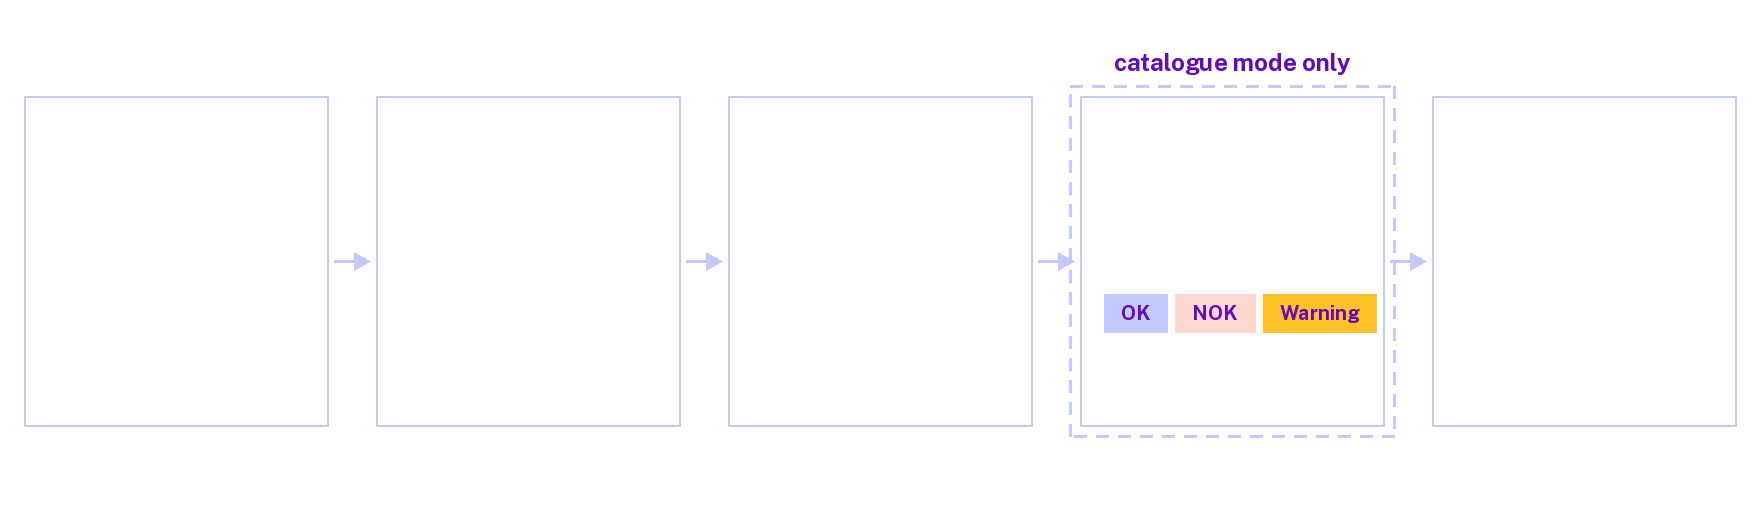
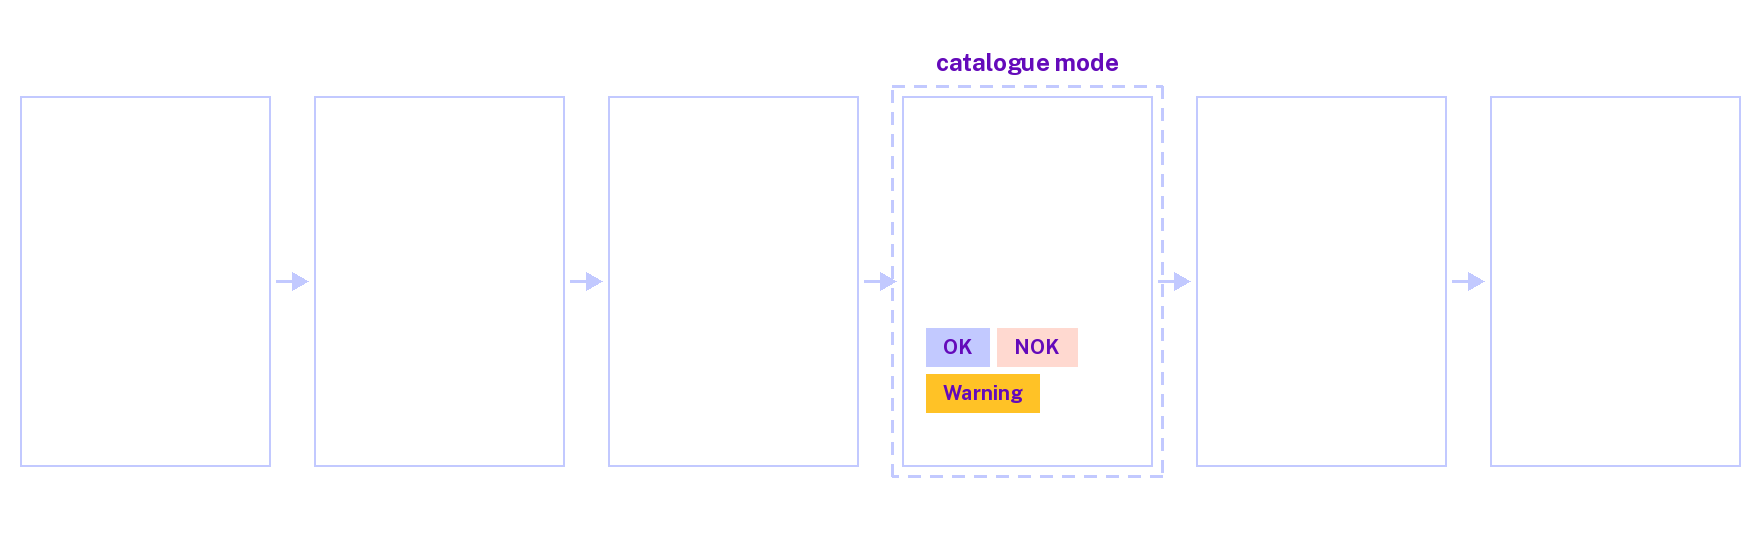
Figure 13 in the station's order: Find, Measure, Judge, Describe, Record
A catalogue mode measures, recognises and checks each object before it is described, and the
describer is told what the checks found (README > Detection logic; the item's describer prompt).
The pipeline diagram drew Describe before Judge. It now draws Frame, Find, Measure, Judge
(marked catalogue mode, its three states as badges), Describe and Record, with the note that a
detect-only mode skips Judge.

- Example/UI/readme_diagrams.py: the steps in CONST_PIPELINE_STEPS, the catalogue step in
  CONST_CATALOGUE_STEP; images/anyscan-pipeline-{light,dark}.png regenerated (the models pair
  is unchanged, byte for byte).
- README: Figure 13's caption and alt text say the order.
- test_readme_diagrams.py: the pipeline follows the station's order (broken once by swapping
  Judge and Describe: it and both pixel tests failed; restored).
- SPEC > Harnesses and tools and readme-writer's project reference describe the new order.

diff --git a/Example/UI/readme_diagrams.py b/Example/UI/readme_diagrams.py
@@ -51,8 +51,8 @@ Description:
     Initialization of constants.
 
     The generator of the README's two light/dark diagram pairs, shown through <picture>:
-    images/anyscan-pipeline-{light,dark}.png, a frame's way to the record (frame -> find -> describe and measure ->
-    judge -> record, the judge step a catalogue mode's only), and images/anyscan-models-{light,dark}.png, the three
+    images/anyscan-pipeline-{light,dark}.png, a frame's way to the record in the station's order (frame -> find ->
+    measure -> judge -> describe -> record, the judge step a catalogue mode's only), and images/anyscan-models-{light,dark}.png, the three
     models with what each does, what it runs on, the revision install.sh pins and its download size (both read from
     install.sh, never typed here).
 
@@ -299,11 +299,25 @@ class Canvas_Cls(object):
                 p = q + 10
 
 
+# The pipeline diagram's steps, in the station's order for a catalogue mode (README > Detection logic: a catalogue
+# mode measures, recognises and checks each object before it is described, and tells the describer what the checks
+# found): each step's pixel icon, its name and its words. The catalogue mode's own step is CONST_CATALOGUE_STEP.
+#   Unit [List<Tuple<string, string, string>>]
+CONST_PIPELINE_STEPS = [('camera', 'Frame', 'SCAN takes one frame once nothing moves'),
+                        ('magnifier', 'Find', 'what changed against the empty table, OR FastSAM segmentation'),
+                        ('ruler', 'Measure', 'the size in mm, through the calibration'),
+                        ('badge', 'Judge', 'DINOv2 recognises the part, the checks give a state'),
+                        ('text', 'Describe', 'a local vision-language model, told what the checks found'),
+                        ('log', 'Record', 'capture set, session log, run summary')]
+CONST_CATALOGUE_STEP = 'Judge'
+
+
 def Draw_Pipeline(dark: bool) -> Image.Image:
     """
     Description:
-        A frame's way to the record, left to right: Frame, Find, Describe and measure, Judge (a catalogue mode's only,
-        in a dashed group with its tag, and its three states as badges) and Record.
+        A frame's way to the record, left to right, in the station's order for a catalogue mode
+        (CONST_PIPELINE_STEPS): Frame, Find, Measure, Judge (the catalogue mode's step, in a dashed group with its tag,
+        its three states as badges), Describe and Record. A detect-only mode skips Judge.
 
     Args:
         (1) dark [bool]: The dark version.
@@ -312,34 +326,30 @@ def Draw_Pipeline(dark: bool) -> Image.Image:
         (1) parameter [Image.Image]: The image.
     """
 
-    canvas = Canvas_Cls(520, dark)
-    title, body = Font(34, 700), Font(26, 400)
-    steps = [('camera', 'Frame', 'SCAN takes one frame once nothing moves'),
-             ('magnifier', 'Find', 'what changed against the empty table, OR FastSAM segmentation'),
-             ('text', 'Describe and measure', 'in words, by a local vision-language model; the size in mm'),
-             ('badge', 'Judge', 'DINOv2 identifies the part, the checks give a state'),
-             ('log', 'Record', 'capture set, session log, run summary')]
-    w, gap, y, h = 304, 48, 96, 330
-    x0 = (CONST_WIDTH - 5 * w - 4 * gap) / 2
-    for i, (icon, name, words) in enumerate(steps):
+    canvas = Canvas_Cls(560, dark)
+    title, body = Font(32, 700), Font(26, 400)
+    n = len(CONST_PIPELINE_STEPS)
+    w, gap, y, h = 250, 44, 96, 370
+    x0 = (CONST_WIDTH - n * w - (n - 1) * gap) / 2
+    for i, (icon, name, words) in enumerate(CONST_PIPELINE_STEPS):
         x = x0 + i * (w + gap)
-        baseline = canvas.Card(x, y, w, h, icon, name, title, 42)
+        baseline = canvas.Card(x, y, w, h, icon, name, title, 40)
         for line in Wrap(words, body, w - 48):
             canvas.Text(x + 24, baseline, line, body, 'ink')
             baseline += 36
-        if name == 'Judge':
-            bx = x + 24
-            for state in ['OK', 'NOK', 'Warning']:
-                bx += canvas.Badge(bx, baseline - 8, state, 20, 38) + 8
+        if name == CONST_CATALOGUE_STEP:
+            for row, states in enumerate([['OK', 'NOK'], ['Warning']]):
+                bx = x + 24
+                for state in states:
+                    bx += canvas.Badge(bx, baseline - 8 + row * 46, state, 20, 38) + 8
             canvas.Dashed_Rect((x - 10, y - 10, x + w + 10, y + h + 10))
             tag = Font(24, 700)
-            tw = tag.getlength('catalogue mode only') + 28
+            tw = tag.getlength('catalogue mode') + 28
             canvas.draw.rectangle([x + w / 2 - tw / 2, y - 52, x + w / 2 + tw / 2, y - 16], fill=canvas.c['tag'])
-            canvas.Text(x + w / 2, y - 34, 'catalogue mode only', tag, 'tag_ink', anchor='mm')
-        if i < len(steps) - 1:
+            canvas.Text(x + w / 2, y - 34, 'catalogue mode', tag, 'tag_ink', anchor='mm')
+        if i < n - 1:
             canvas.Arrow(x + w + 6, x + w + gap - 6, y + h / 2)
-    canvas.Text(x0, 490, 'Every mode finds, describes and measures. A catalogue mode also judges each object it finds.',
-                body, 'mute')
+    canvas.Text(x0, 530, 'The order of a catalogue mode. A detect-only mode skips Judge.', body, 'mute')
     return canvas.image
 
 

diff --git a/test/UI/test_readme_diagrams.py b/test/UI/test_readme_diagrams.py
@@ -38,7 +38,7 @@ Description:
     Example/UI/readme_diagrams.py, the README's pipeline and models diagrams: each committed image, light and dark, is
     exactly the generator's output (compared pixel by pixel), the dark versions lie on a transparent ground and the
     light ones on white, the models diagram's pins are the revisions the README's download commands use, and the
-    README shows each through <picture>.
+    README shows each through <picture>, and the pipeline follows the station's order.
 """
 CONST_PROJECT_FOLDER = os.path.abspath(os.path.join(os.path.dirname(__file__), '..', '..'))
 CONST_GENERATOR = os.path.join(CONST_PROJECT_FOLDER, 'Example', 'UI', 'readme_diagrams.py')
@@ -134,3 +134,17 @@ def test_the_readme_shows_each_diagram_light_and_dark_through_picture(figure) ->
     block = '<picture>\n  <source media="(prefers-color-scheme: dark)" srcset="images/%s-dark.png">\n' \
             '  <img src="images/%s-light.png" width="100%%" alt="' % (figure, figure)
     assert block in readme
+
+
+def test_the_pipeline_follows_the_stations_order(generator) -> None:
+    """
+    Description:
+        The pipeline diagram draws a catalogue mode's order (README > Detection logic: each object is measured,
+        recognised and checked before it is described, the describer told what the checks found): Frame, Find,
+        Measure, Judge, Describe, Record, with Judge marked as the catalogue mode's step.
+    """
+
+    names = [name for _icon, name, _words in generator.CONST_PIPELINE_STEPS]
+    assert names == ['Frame', 'Find', 'Measure', 'Judge', 'Describe', 'Record']
+    assert generator.CONST_CATALOGUE_STEP == 'Judge'
+    assert names.index('Judge') < names.index('Describe')

diff --git a/README.md b/README.md
@@ -305,11 +305,12 @@ git diff test/Vision/data/characterization.txt
 
 <picture>
   <source media="(prefers-color-scheme: dark)" srcset="images/anyscan-pipeline-dark.png">
-  <img src="images/anyscan-pipeline-light.png" width="100%" alt="A frame's way to the record in five cards: Frame, SCAN takes one frame once nothing moves; Find, what changed against the empty table or FastSAM segmentation; Describe and measure, a local vision-language model and the size in mm; Judge, catalogue mode only, DINOv2 identifies the part and the checks give OK, NOK or Warning; Record, the capture set, session log and run summary">
+  <img src="images/anyscan-pipeline-light.png" width="100%" alt="A frame's way to the record in six cards, in a catalogue mode's order: Frame, SCAN takes one frame once nothing moves; Find, what changed against the empty table or FastSAM segmentation; Measure, the size in mm through the calibration; Judge, catalogue mode, DINOv2 recognises the part and the checks give OK, NOK or Warning; Describe, a local vision-language model told what the checks found; Record, the capture set, session log and run summary">
 </picture>
 
-**Figure 13:** From a frame to the record, generated by `Example/UI/readme_diagrams.py`. Every mode finds, describes
-and measures. A catalogue mode also judges each object (the dashed step).
+**Figure 13:** From a frame to the record in a catalogue mode's order, generated by `Example/UI/readme_diagrams.py`:
+each object is measured and judged (the dashed step), then described with what the checks found. A detect-only mode
+skips Judge.
 
 SCAN takes the first frame with no movement since the one before (`Camera.Utilities.Stillness.Is_Still`), and
 `Vision_Pipeline_Cls.Analyze` (`src/Vision/Core.py`) runs the stages every mode shares (modules under

diff --git a/.claude/project-docs/SPEC.md b/.claude/project-docs/SPEC.md
@@ -485,8 +485,9 @@ path; the one exception, `calibrate.py --capture`, says so where it is.
   the application's copies of the delivered logo (the logo without its tagline, the mark, and the icon: the mark on a
   transparent ground, grid-fitted at each of 16-256 px), and build the
   bundled fonts (Public Sans and JetBrains Mono).
-- `UI/readme_diagrams.py` — draw the README's two light/dark diagram pairs for `<picture>`: the pipeline (frame, find,
-  describe and measure, judge, record; `images/anyscan-pipeline-{light,dark}.png`) and the three models (role, what
+- `UI/readme_diagrams.py` — draw the README's two light/dark diagram pairs for `<picture>`: the pipeline in a catalogue
+  mode's order (frame, find, measure, judge, describe, record, Judge marked as the catalogue mode's step;
+  `images/anyscan-pipeline-{light,dark}.png`) and the three models (role, what
   it runs on, the pin and the size `install.sh` holds; `images/anyscan-models-{light,dark}.png`), from the theme
   tokens, the pixel icon set and the bundled fonts, at 1760 px for the README's ~880. The dark versions lie on a
   transparent ground. `--check` exits 1 when a committed image is stale, `--out` writes elsewhere;

diff --git a/.claude/skills/readme-writer/references/project.md b/.claude/skills/readme-writer/references/project.md
@@ -62,7 +62,7 @@ machine, 2026-09-29, and in real use on it as station SF4 on 2026-10-29** (Linux
 - Script: `Example/UI/readme_diagrams.py` (Phase C, 2026-11-26) writes the two light/dark pairs,
   `images/anyscan-models-{light,dark}.png` (Figure 5, *Setup*: each model's role, what it runs on, its pin and its
   download size, read from `install.sh`) and `images/anyscan-pipeline-{light,dark}.png` (Figure 13, *Detection logic*:
-  frame, find, describe and measure, judge, record), PNG at 1760 px with the bundled OFL fonts drawn in;
+  frame, find, measure, judge, describe, record, a catalogue mode's order with Judge marked as its step), PNG at 1760 px with the bundled OFL fonts drawn in;
   regenerated, never edited. `test/UI/test_readme_diagrams.py` holds them to its output pixel for pixel.
 - **The animations** (Phase C, the owner, 2026-11-26): Figure 3, `images/anyscan-scan-analyze.webp` (live preview,
   SCAN, the frame, the analysis grid, the result), is cut from the AnyScan-Media archive's screen recording of station
